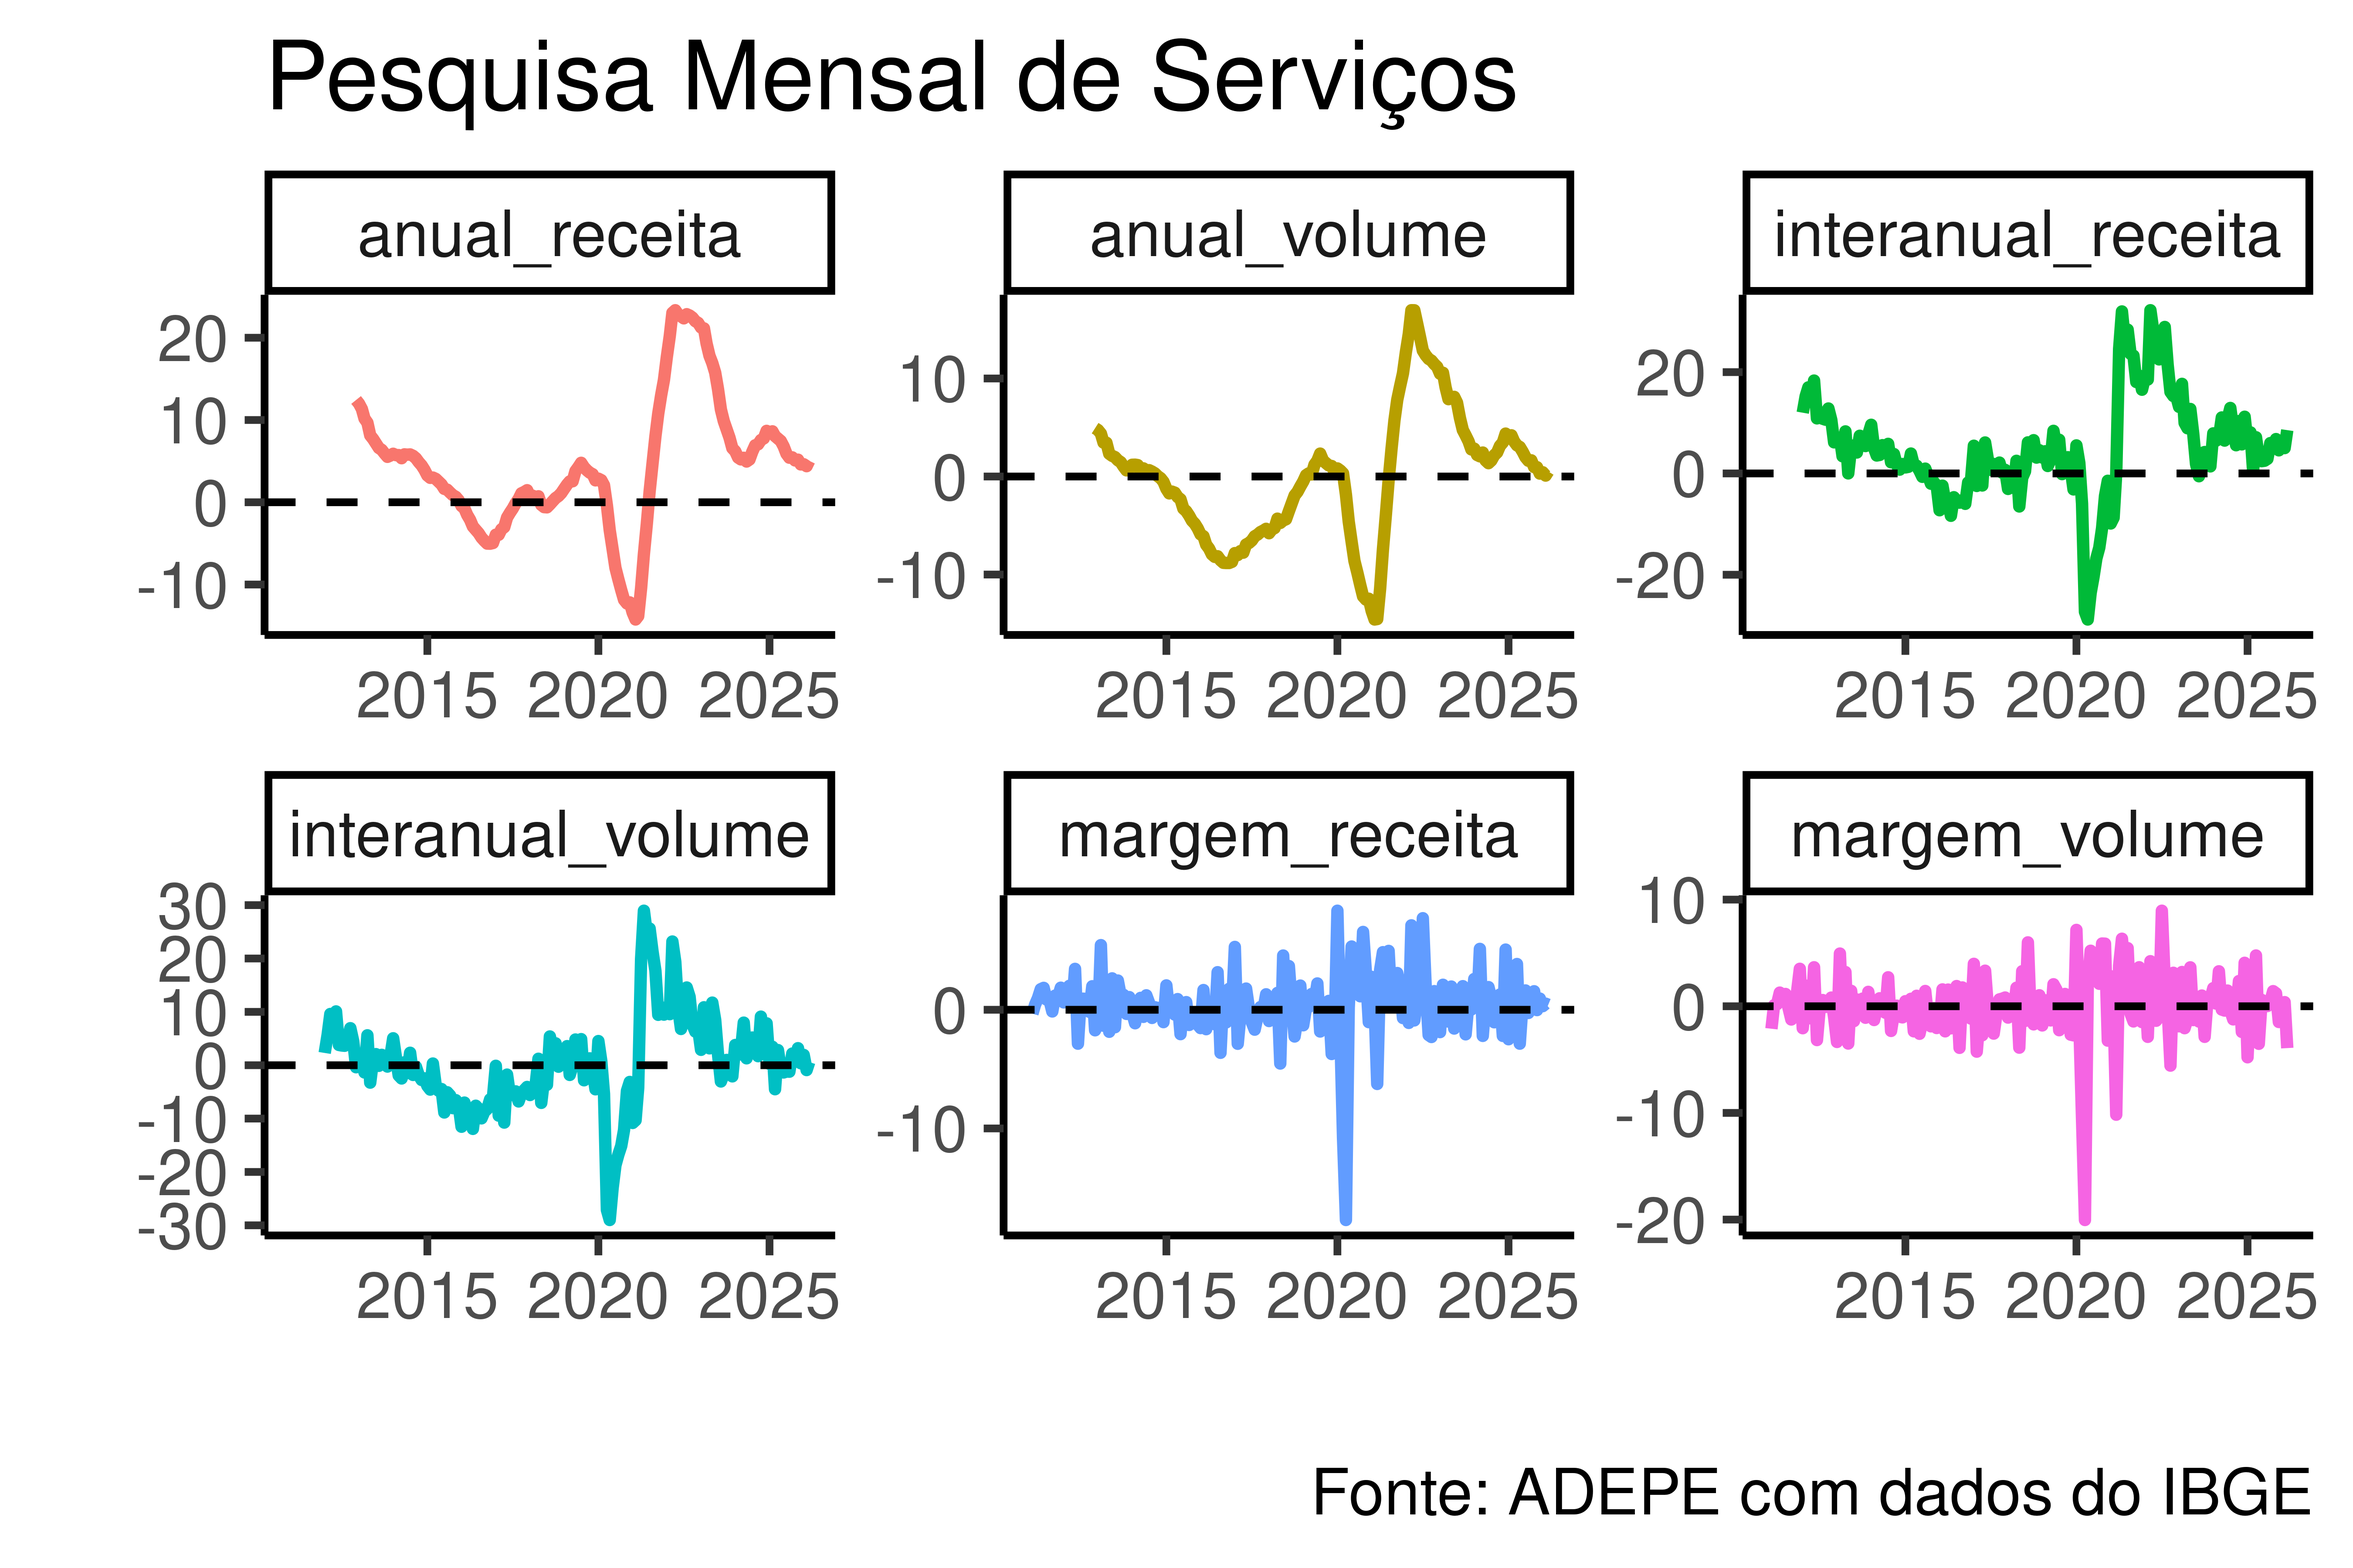
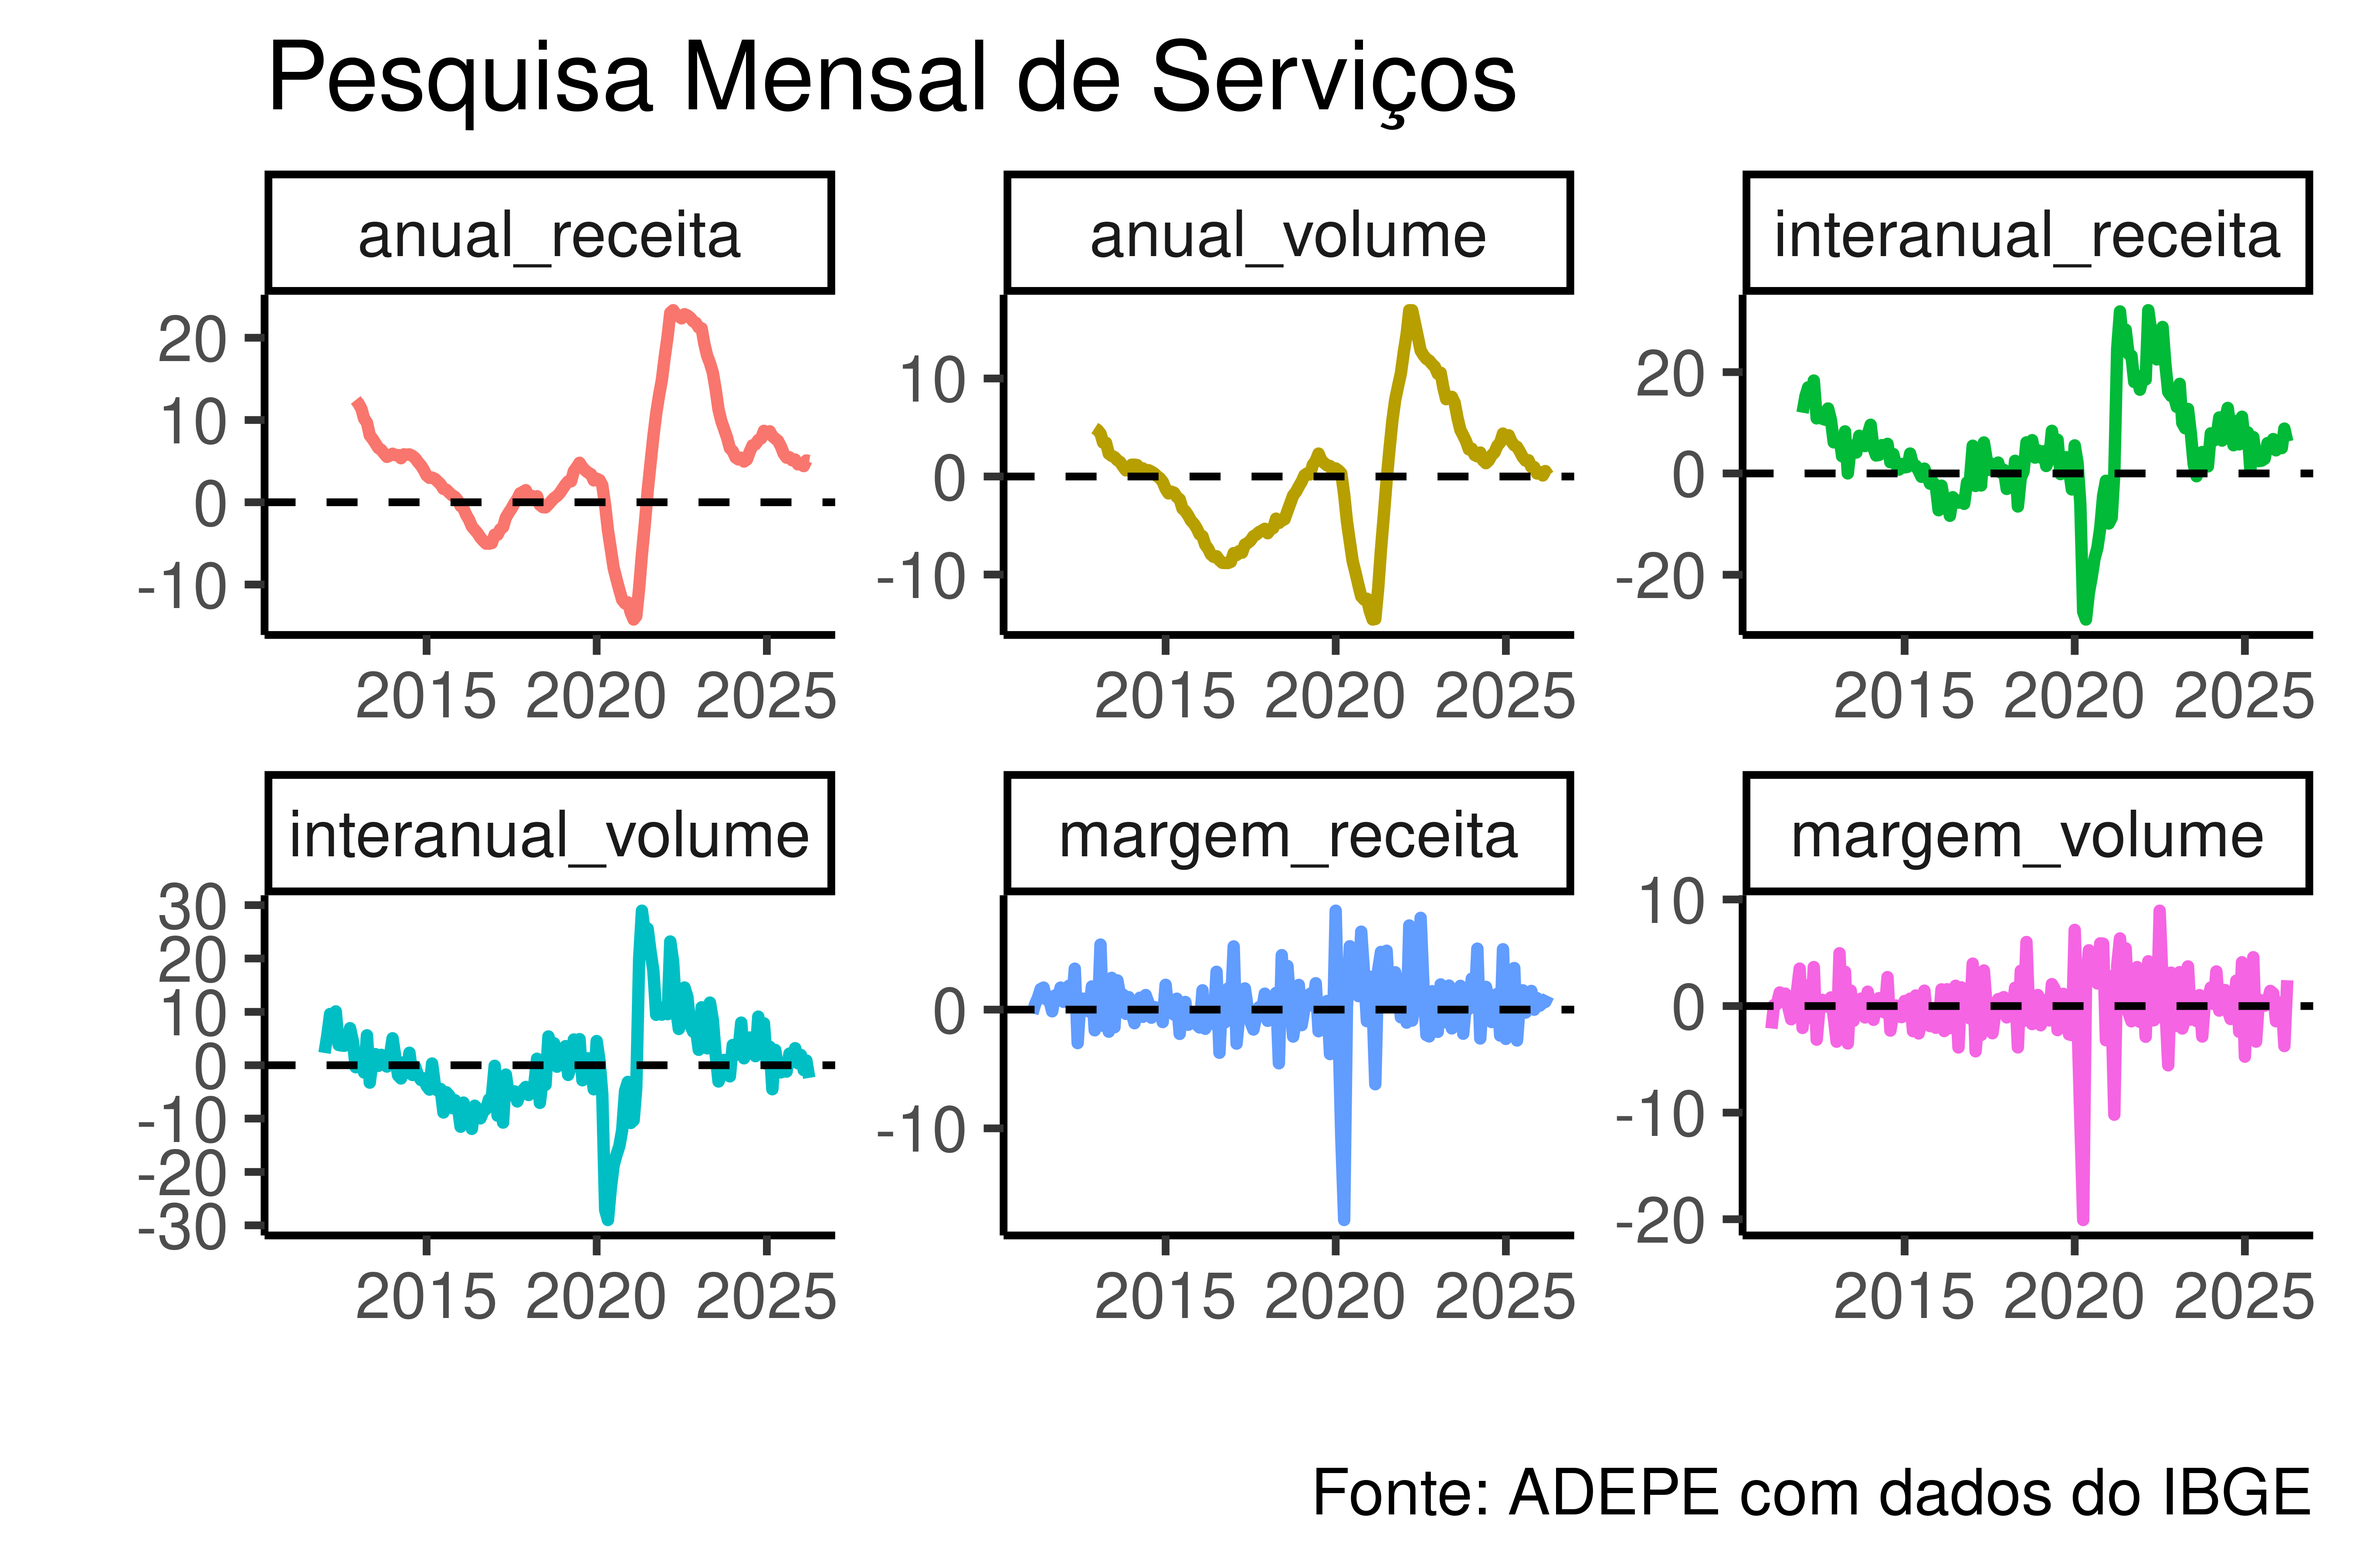
Atualização de relatório automatizada

diff --git a/relatório_nivel_atividade/pesquisas.html b/relatório_nivel_atividade/pesquisas.html
@@ -111,46 +111,46 @@ ul.task-list li input[type="checkbox"] {
 </thead>
 <tbody>
 <tr class="odd">
-<td style="text-align: center;">Oct 2025</td>
-<td style="text-align: center;">3.73</td>
-<td style="text-align: center;">0.66</td>
-<td style="text-align: center;">1.46</td>
-<td style="text-align: center;">2.05</td>
-</tr>
-<tr class="even">
 <td style="text-align: center;">Nov 2025</td>
 <td style="text-align: center;">1.57</td>
 <td style="text-align: center;">-4.07</td>
 <td style="text-align: center;">1.58</td>
 <td style="text-align: center;">0.40</td>
 </tr>
-<tr class="odd">
+<tr class="even">
 <td style="text-align: center;">Dec 2025</td>
 <td style="text-align: center;">2.30</td>
 <td style="text-align: center;">0.10</td>
 <td style="text-align: center;">-9.63</td>
 <td style="text-align: center;">-4.24</td>
 </tr>
-<tr class="even">
+<tr class="odd">
 <td style="text-align: center;">Jan 2026</td>
 <td style="text-align: center;">29.07</td>
 <td style="text-align: center;">-7.84</td>
-<td style="text-align: center;">-10.99</td>
-<td style="text-align: center;">-0.66</td>
-</tr>
-<tr class="odd">
-<td style="text-align: center;">Feb 2026</td>
-<td style="text-align: center;">25.05</td>
-<td style="text-align: center;">-9.36</td>
-<td style="text-align: center;">-5.05</td>
-<td style="text-align: center;">0.83</td>
+<td style="text-align: center;">-10.97</td>
+<td style="text-align: center;">-0.65</td>
 </tr>
 <tr class="even">
+<td style="text-align: center;">Feb 2026</td>
+<td style="text-align: center;">25.04</td>
+<td style="text-align: center;">-9.36</td>
+<td style="text-align: center;">-5.01</td>
+<td style="text-align: center;">0.76</td>
+</tr>
+<tr class="odd">
 <td style="text-align: center;">Mar 2026</td>
-<td style="text-align: center;">34.97</td>
-<td style="text-align: center;">0.07</td>
-<td style="text-align: center;">-3.39</td>
-<td style="text-align: center;">9.89</td>
+<td style="text-align: center;">34.99</td>
+<td style="text-align: center;">0.19</td>
+<td style="text-align: center;">-3.28</td>
+<td style="text-align: center;">7.67</td>
+</tr>
+<tr class="even">
+<td style="text-align: center;">Apr 2026</td>
+<td style="text-align: center;">-3.81</td>
+<td style="text-align: center;">-0.42</td>
+<td style="text-align: center;">1.05</td>
+<td style="text-align: center;">0.38</td>
 </tr>
 </tbody>
 </table>
@@ -171,46 +171,46 @@ ul.task-list li input[type="checkbox"] {
 </thead>
 <tbody>
 <tr class="odd">
-<td style="text-align: center;">Oct 2025</td>
-<td style="text-align: center;">-1.46</td>
-<td style="text-align: center;">-0.62</td>
-<td style="text-align: center;">2.42</td>
-<td style="text-align: center;">-0.33</td>
-</tr>
-<tr class="even">
 <td style="text-align: center;">Nov 2025</td>
-<td style="text-align: center;">1.09</td>
-<td style="text-align: center;">-2.65</td>
-<td style="text-align: center;">0.80</td>
-<td style="text-align: center;">-0.15</td>
+<td style="text-align: center;">0.90</td>
+<td style="text-align: center;">-2.60</td>
+<td style="text-align: center;">2.00</td>
+<td style="text-align: center;">-0.11</td>
 </tr>
-<tr class="odd">
+<tr class="even">
 <td style="text-align: center;">Dec 2025</td>
-<td style="text-align: center;">0.67</td>
-<td style="text-align: center;">-4.03</td>
-<td style="text-align: center;">-10.47</td>
-<td style="text-align: center;">-5.93</td>
-</tr>
-<tr class="even">
-<td style="text-align: center;">Jan 2026</td>
-<td style="text-align: center;">-2.10</td>
-<td style="text-align: center;">-0.30</td>
-<td style="text-align: center;">3.89</td>
-<td style="text-align: center;">2.96</td>
+<td style="text-align: center;">0.63</td>
+<td style="text-align: center;">-3.94</td>
+<td style="text-align: center;">-11.37</td>
+<td style="text-align: center;">-5.86</td>
 </tr>
 <tr class="odd">
-<td style="text-align: center;">Feb 2026</td>
-<td style="text-align: center;">0.09</td>
-<td style="text-align: center;">2.73</td>
-<td style="text-align: center;">2.42</td>
-<td style="text-align: center;">0.53</td>
+<td style="text-align: center;">Jan 2026</td>
+<td style="text-align: center;">-2.24</td>
+<td style="text-align: center;">-0.28</td>
+<td style="text-align: center;">4.78</td>
+<td style="text-align: center;">2.93</td>
 </tr>
 <tr class="even">
+<td style="text-align: center;">Feb 2026</td>
+<td style="text-align: center;">-0.04</td>
+<td style="text-align: center;">2.78</td>
+<td style="text-align: center;">2.07</td>
+<td style="text-align: center;">0.48</td>
+</tr>
+<tr class="odd">
 <td style="text-align: center;">Mar 2026</td>
-<td style="text-align: center;">-1.87</td>
-<td style="text-align: center;">-1.33</td>
-<td style="text-align: center;">0.97</td>
-<td style="text-align: center;">1.73</td>
+<td style="text-align: center;">-2.34</td>
+<td style="text-align: center;">-1.16</td>
+<td style="text-align: center;">0.81</td>
+<td style="text-align: center;">0.59</td>
+</tr>
+<tr class="even">
+<td style="text-align: center;">Apr 2026</td>
+<td style="text-align: center;">-3.62</td>
+<td style="text-align: center;">2.26</td>
+<td style="text-align: center;">2.98</td>
+<td style="text-align: center;">1.41</td>
 </tr>
 </tbody>
 </table>
@@ -274,40 +274,40 @@ Nota
 </thead>
 <tbody>
 <tr class="odd">
-<td style="text-align: left;">2025-10-01</td>
-<td style="text-align: right;">0.26</td>
-<td style="text-align: right;">7.12</td>
-<td style="text-align: right;">7.51</td>
-</tr>
-<tr class="even">
 <td style="text-align: left;">2025-11-01</td>
-<td style="text-align: right;">0.53</td>
-<td style="text-align: right;">6.82</td>
-<td style="text-align: right;">7.56</td>
+<td style="text-align: right;">0.55</td>
+<td style="text-align: right;">6.84</td>
+<td style="text-align: right;">7.57</td>
 </tr>
-<tr class="odd">
+<tr class="even">
 <td style="text-align: left;">2025-12-01</td>
-<td style="text-align: right;">-0.90</td>
+<td style="text-align: right;">-0.94</td>
 <td style="text-align: right;">7.87</td>
-<td style="text-align: right;">7.66</td>
-</tr>
-<tr class="even">
-<td style="text-align: left;">2026-01-01</td>
-<td style="text-align: right;">2.14</td>
-<td style="text-align: right;">6.91</td>
-<td style="text-align: right;">7.69</td>
+<td style="text-align: right;">7.68</td>
 </tr>
 <tr class="odd">
-<td style="text-align: left;">2026-02-01</td>
-<td style="text-align: right;">1.14</td>
-<td style="text-align: right;">4.88</td>
-<td style="text-align: right;">7.36</td>
+<td style="text-align: left;">2026-01-01</td>
+<td style="text-align: right;">2.24</td>
+<td style="text-align: right;">6.89</td>
+<td style="text-align: right;">7.71</td>
 </tr>
 <tr class="even">
+<td style="text-align: left;">2026-02-01</td>
+<td style="text-align: right;">1.11</td>
+<td style="text-align: right;">4.86</td>
+<td style="text-align: right;">7.38</td>
+</tr>
+<tr class="odd">
 <td style="text-align: left;">2026-03-01</td>
-<td style="text-align: right;">-0.56</td>
-<td style="text-align: right;">8.54</td>
-<td style="text-align: right;">7.45</td>
+<td style="text-align: right;">-0.19</td>
+<td style="text-align: right;">8.84</td>
+<td style="text-align: right;">7.49</td>
+</tr>
+<tr class="even">
+<td style="text-align: left;">2026-04-01</td>
+<td style="text-align: right;">1.45</td>
+<td style="text-align: right;">8.05</td>
+<td style="text-align: right;">7.55</td>
 </tr>
 </tbody>
 </table>
@@ -329,40 +329,40 @@ Nota
 </thead>
 <tbody>
 <tr class="odd">
-<td style="text-align: left;">2025-10-01</td>
-<td style="text-align: right;">0.31</td>
-<td style="text-align: right;">2.31</td>
-<td style="text-align: right;">2.81</td>
-</tr>
-<tr class="even">
 <td style="text-align: left;">2025-11-01</td>
-<td style="text-align: right;">-0.14</td>
-<td style="text-align: right;">2.71</td>
-<td style="text-align: right;">2.82</td>
-</tr>
-<tr class="odd">
-<td style="text-align: left;">2025-12-01</td>
-<td style="text-align: right;">-0.29</td>
-<td style="text-align: right;">3.64</td>
-<td style="text-align: right;">2.90</td>
+<td style="text-align: right;">-0.12</td>
+<td style="text-align: right;">2.73</td>
+<td style="text-align: right;">2.84</td>
 </tr>
 <tr class="even">
-<td style="text-align: left;">2026-01-01</td>
-<td style="text-align: right;">-0.07</td>
-<td style="text-align: right;">3.24</td>
-<td style="text-align: right;">3.07</td>
+<td style="text-align: left;">2025-12-01</td>
+<td style="text-align: right;">-0.26</td>
+<td style="text-align: right;">3.64</td>
+<td style="text-align: right;">2.91</td>
 </tr>
 <tr class="odd">
+<td style="text-align: left;">2026-01-01</td>
+<td style="text-align: right;">0.00</td>
+<td style="text-align: right;">3.23</td>
+<td style="text-align: right;">3.08</td>
+</tr>
+<tr class="even">
 <td style="text-align: left;">2026-02-01</td>
 <td style="text-align: right;">-0.01</td>
-<td style="text-align: right;">0.43</td>
-<td style="text-align: right;">2.76</td>
+<td style="text-align: right;">0.41</td>
+<td style="text-align: right;">2.77</td>
+</tr>
+<tr class="odd">
+<td style="text-align: left;">2026-03-01</td>
+<td style="text-align: right;">-1.07</td>
+<td style="text-align: right;">3.32</td>
+<td style="text-align: right;">2.88</td>
 </tr>
 <tr class="even">
-<td style="text-align: left;">2026-03-01</td>
-<td style="text-align: right;">-1.21</td>
-<td style="text-align: right;">3.03</td>
-<td style="text-align: right;">2.85</td>
+<td style="text-align: left;">2026-04-01</td>
+<td style="text-align: right;">1.21</td>
+<td style="text-align: right;">1.85</td>
+<td style="text-align: right;">2.88</td>
 </tr>
 </tbody>
 </table>
